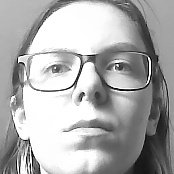
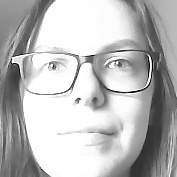
Took some pictures of myself

diff --git a/FaceRecognition/FaceRecognition01.py b/FaceRecognition/FaceRecognition01.py
@@ -23,7 +23,7 @@ while(True):
     k = cv2.waitKey(100) & 0xff
     if k == 27:
         break
-    elif count >= 5: # ennyi képet csinál a program
+    elif count >= 15: # ennyi képet csinál a program
          break
 cam.release()
 cv2.destroyAllWindows()
